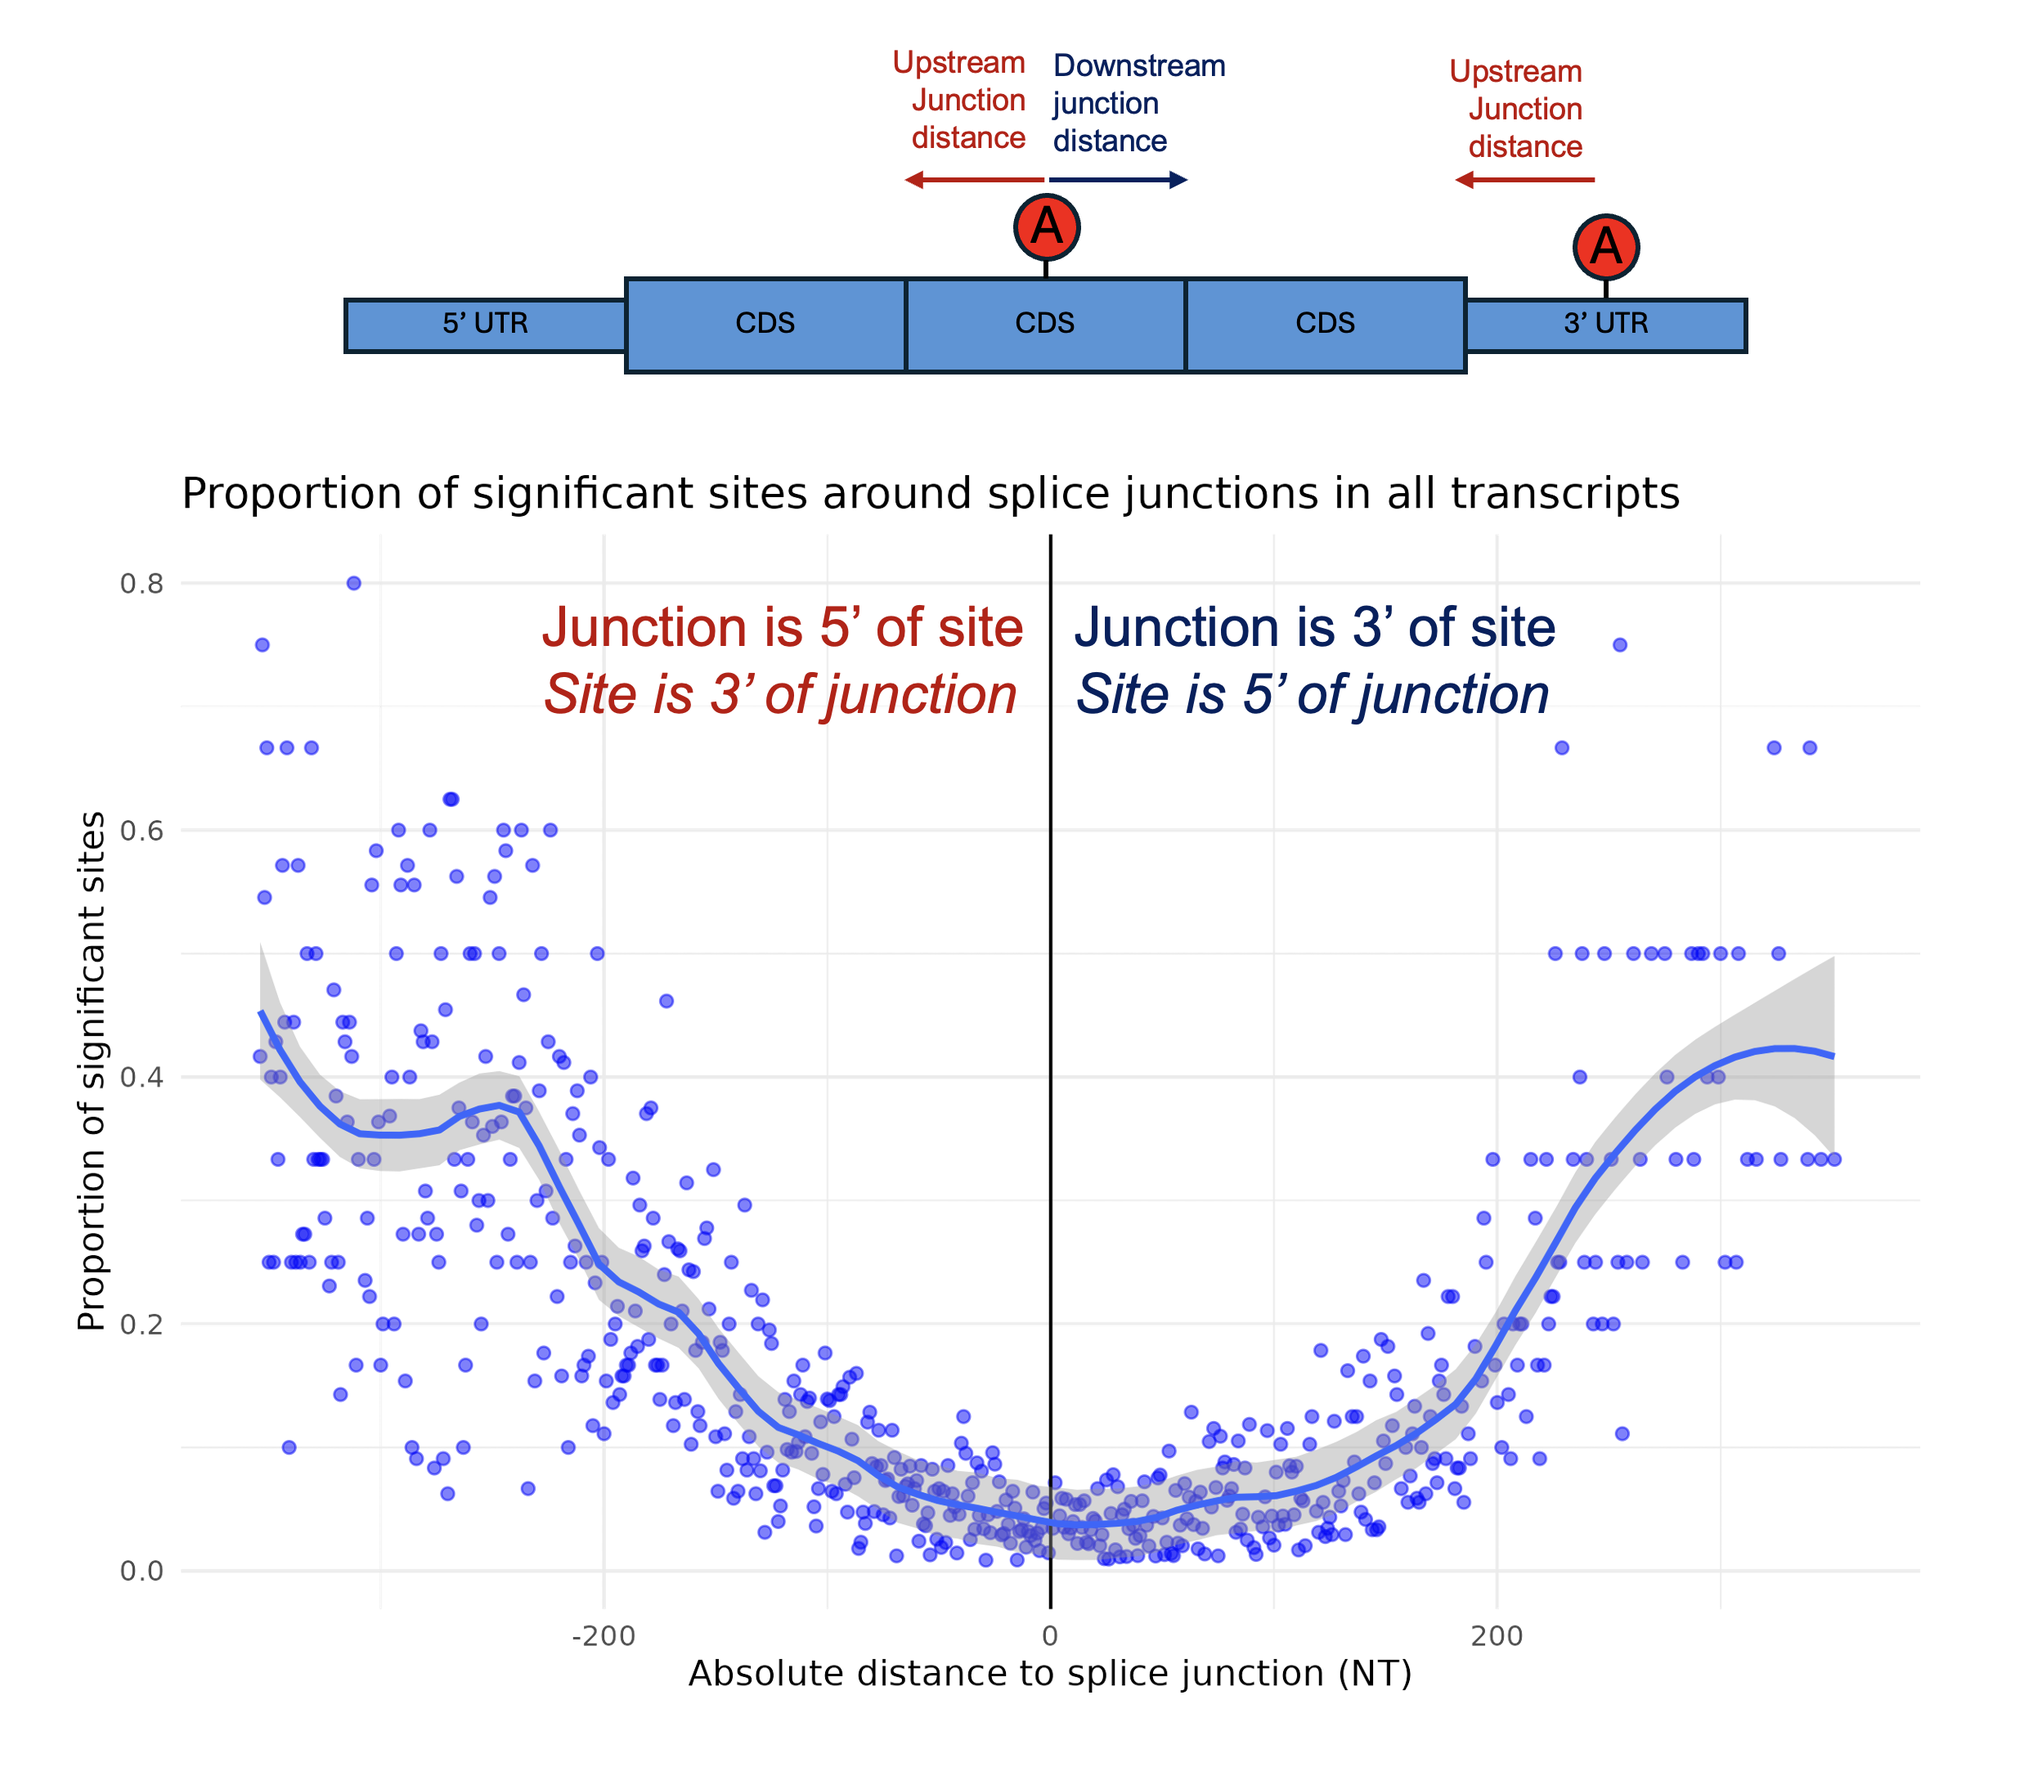
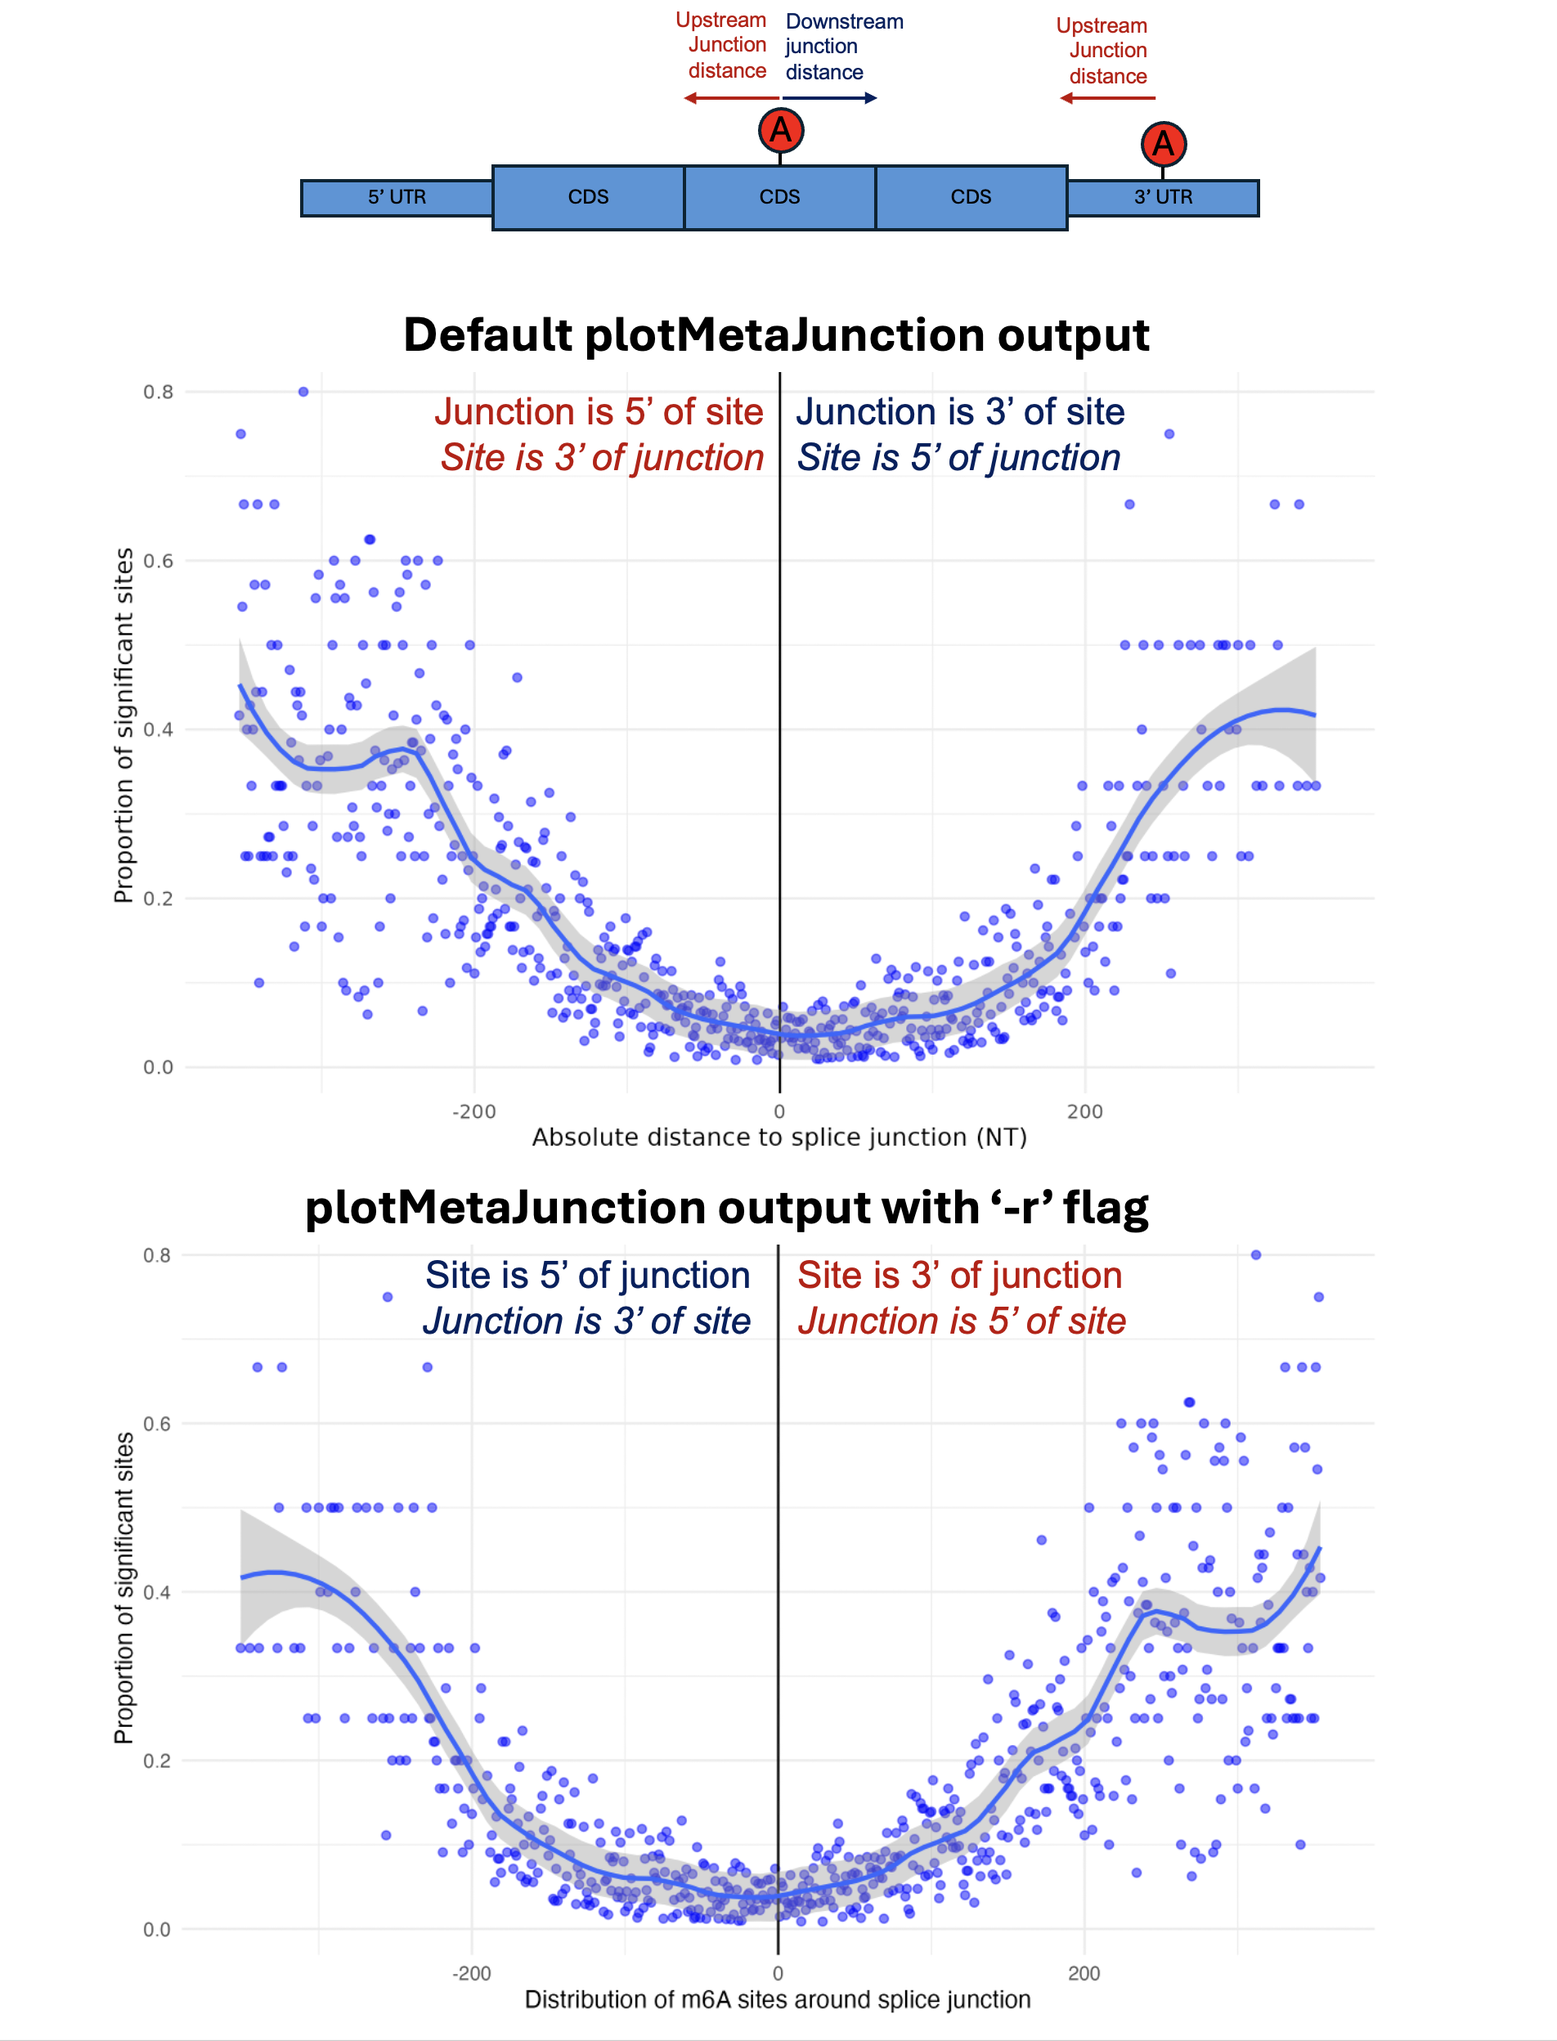
add reverse focus for metajunction plot

diff --git a/src/main.rs b/src/main.rs
@@ -244,6 +244,12 @@ fn main() {
                     .long("save-table")
                     .value_name("FILE")
                     .help("Save the aggregated metajunction data as a tab-separated file"))
+                .arg(Arg::new("reverse_focus")
+                    .short('r')
+                    .long("reverse")
+                    .help("Reverse the x-axis sign and show distribution of m6A sites around junctions instead of distribution of junctions around m6A sites")
+                    .action(clap::ArgAction::SetTrue)
+                    .required(false))
         )
         .subcommand(
             Command::new("plotMetaCodon")
@@ -393,17 +399,20 @@ fn main() {
             matches.get_one::<String>("cutoff").unwrap().clone(),
             matches.get_one::<String>("cutoff_type").unwrap().clone(),
         ];
-
+    
         if let Some(method) = matches.get_one::<String>("confidence_method") {
             args.extend_from_slice(&["-c".to_string(), method.clone()]);
         }
         if let Some(table) = matches.get_one::<String>("save_table") {
             args.extend_from_slice(&["-o".to_string(), table.clone()]);
         }
-
+        if matches.get_flag("reverse_focus") {      
+            args.push("-r".to_string());
+        }
+    
         println!("Arguments being passed to R2_plotMetaJunction.R:");
         println!("Rscript R2_plotMetaJunction.R {}", args.join(" "));
-
+    
         match generate_r_plots("R2_plotMetaJunction.R", &args, None) {
             Ok(_) => println!("PlotMetaJunction generated successfully."),
             Err(e) => {

diff --git a/README.md b/README.md
@@ -127,8 +127,8 @@ $ r2d plotMetaJunction -i "./test/annotate.bed" -o "./test/metajunction_m6A.png"
 
 The plot shows the proportion of sites that have greater than 10% m6A methylation, and their distances to local splice-junctions: 
 
-Distances to downstream junctions are indicated on the right side of the plot, and distances to upstream junctions are indicated on the left side of the plot.     
-To reverse the focus, so that splice junctions are centered at x = 0 and m6A sites are plotted around junctions, pass the '-r' flag to R2_plotMetaJunction.R.    
+By default, distances to downstream junctions are indicated on the right side of the plot, and distances to upstream junctions are indicated on the left side of the plot.     
+To reverse the focus, so that splice junctions are centered at x = 0 and distances to m6A sites are plotted around junctions, pass the '-r' flag to R2_plotMetaJunction.R. An example is shown below.    
       
 ![Distribution of m6A sites around exon junctions](./assets/metajunction_m6A.png)
 
